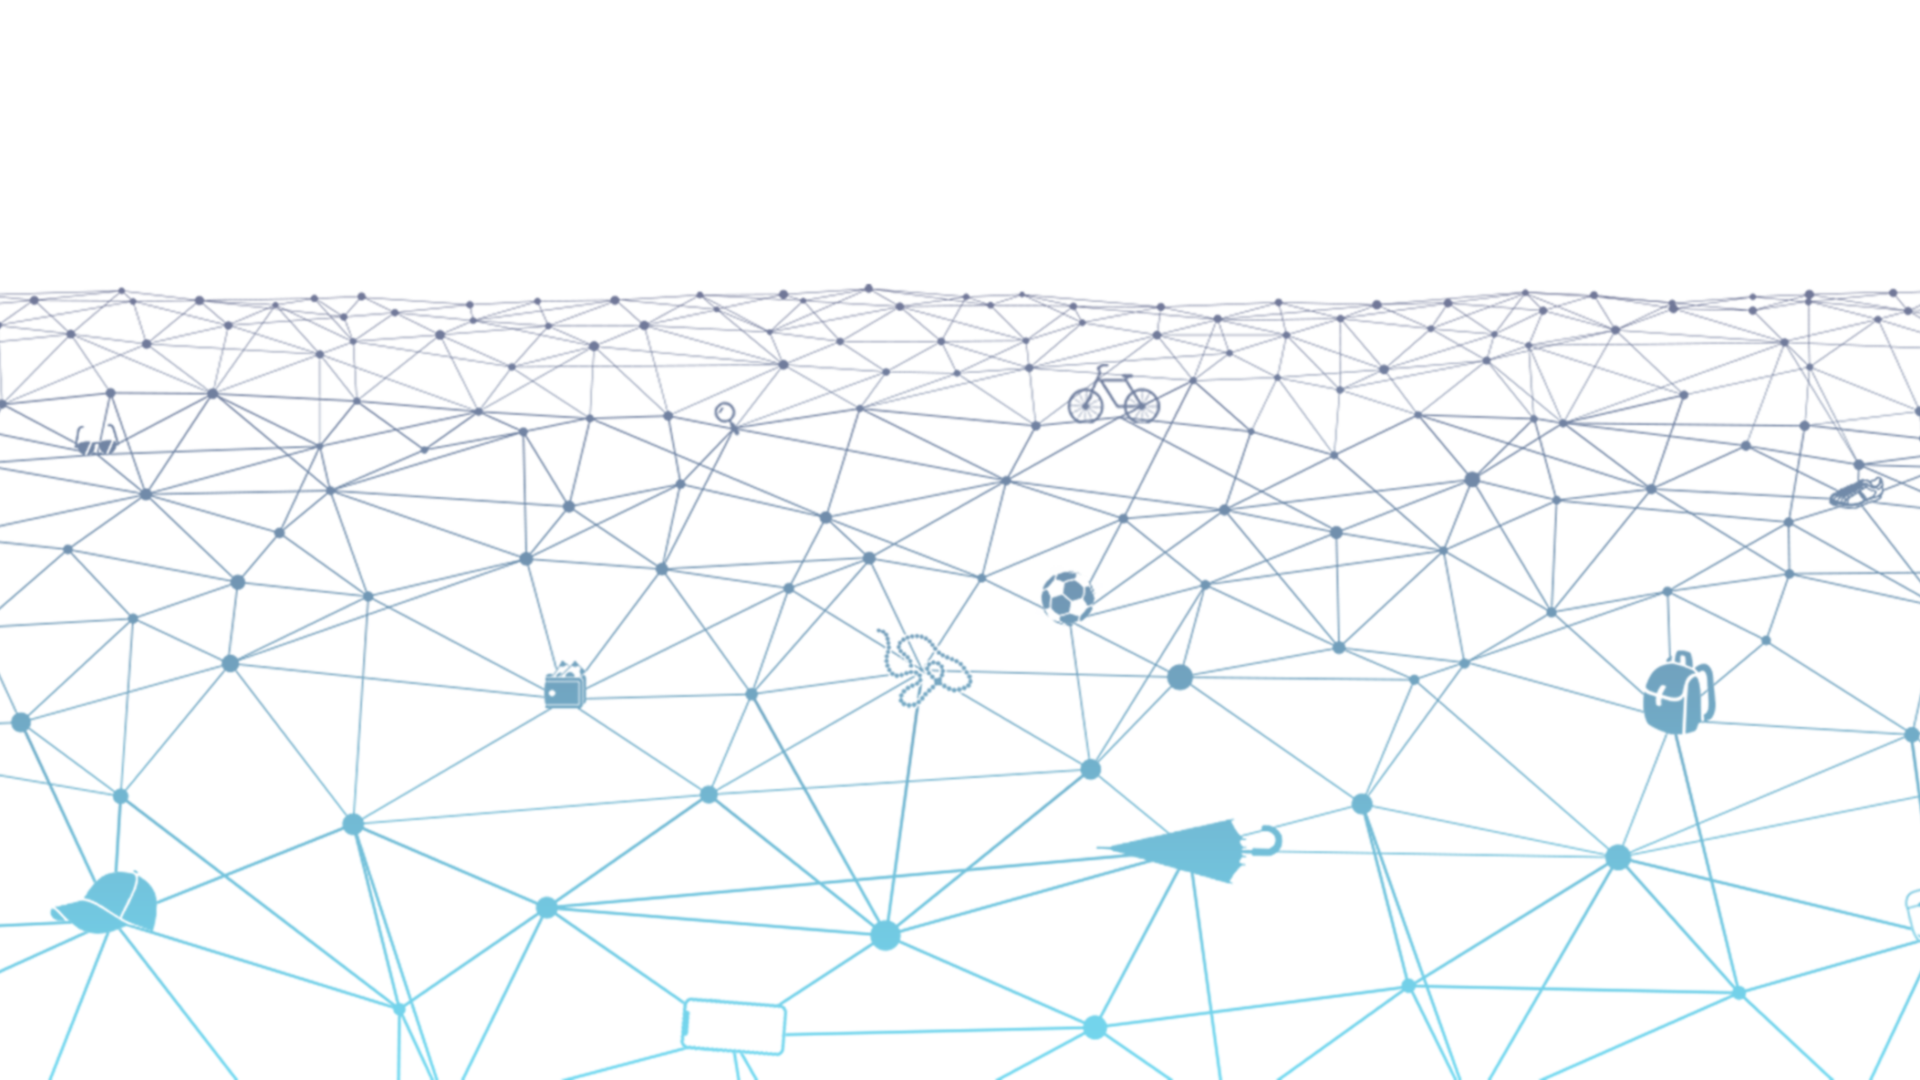
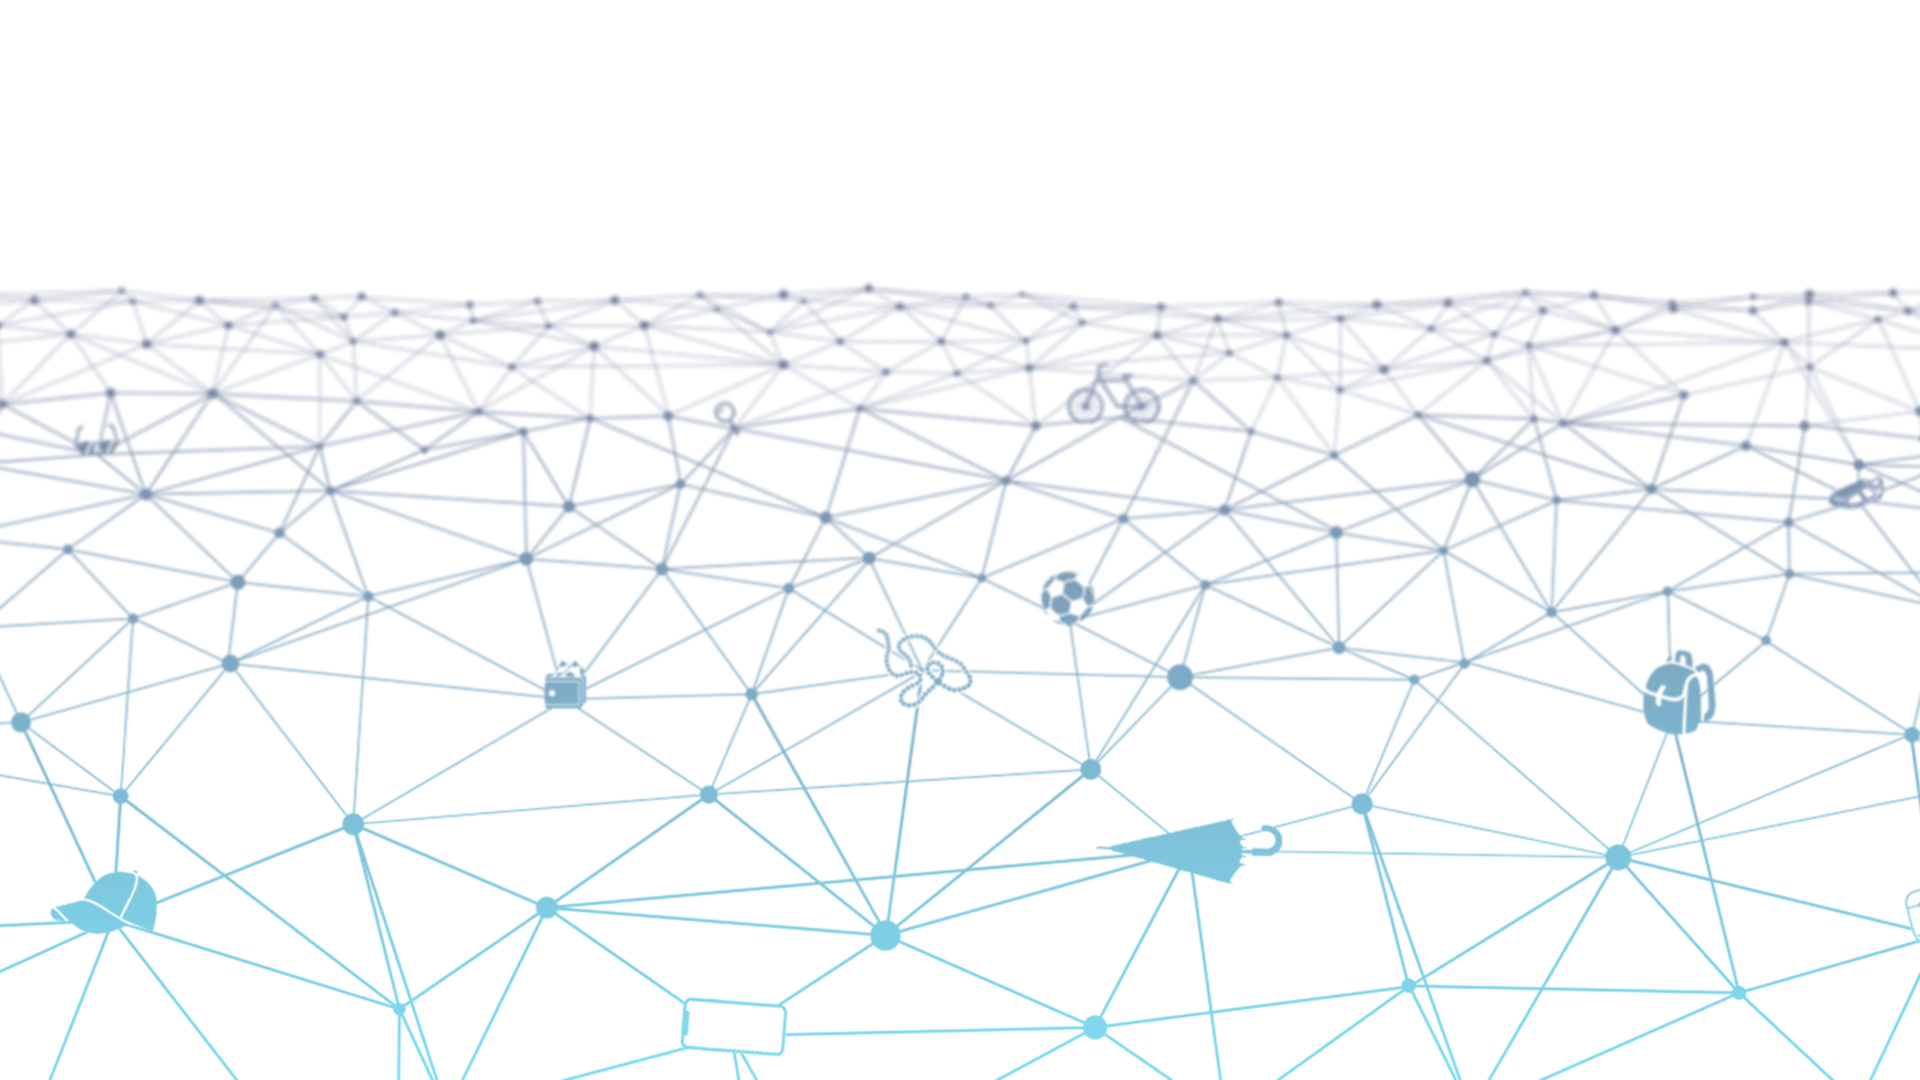
Fixed some vectors and added bg-fixed to all of them

diff --git a/src/pages/HomePage.jsx b/src/pages/HomePage.jsx
@@ -5,7 +5,7 @@ import Page from "../components/Page"
 
 const HomePage = () => {
     return (
-        <Page bgClassName="bg-vertical lg:bg-horizontal bg-cover bg-no-repeat" className="h-auto flex flex-col items-center px-6 lg:px-16">
+        <Page bgClassName="bg-vertical lg:bg-horizontal bg-cover bg-no-repeat bg-fixed" className="h-auto flex flex-col items-center px-6 lg:px-16">
             <VeryBigText className="text-center lg:mt-20">Lost & Found</VeryBigText>
             <MediumText className="mx-8 mt-16 lg:mt-20 md:w-3/4 lg:w-1-2 text-left drop-shadow-lg">
                 Ostavio si torbu u tramvaju? Ostala ti je majica u teretani? Pronađi izgubljene predmete u nekoliko klikova.

diff --git a/src/pages/PrivacyPage.jsx b/src/pages/PrivacyPage.jsx
@@ -4,7 +4,7 @@ import Page from "../components/Page"
 
 const PrivacyPage = () => {
     return (
-        <Page className="bg-privacyVertical lg:bg-privacyHorizontal bg-cover bg-center bg-no-repeat flex flex-col items-center px-6 lg:px-16">
+        <Page bgClassName="bg-privacyVertical lg:bg-privacyHorizontal bg-cover bg-center bg-no-repeat bg-fixed" className="flex flex-col items-center px-6 lg:px-16">
             <BigText className="text-center mt-16 lg:mt-20">Prikupljanje podataka</BigText>
             <MediumText className="mx-2 mt-16 lg:w-3/4 text-left font-semibold text-primary">Uvod</MediumText>
             <SmallText className="mx-2 mt-5 lg:w-3/4 text-left font-medium">

diff --git a/src/pages/AboutPage.jsx b/src/pages/AboutPage.jsx
@@ -4,7 +4,7 @@ import Page from "../components/Page"
 
 const AboutPage = () => {
     return (
-        <Page className="bg-aboutVertical lg:bg-aboutHorizontal bg-cover bg-center bg-no-repeat flex flex-col items-center px-6 lg:px-16">
+        <Page bgClassName="bg-aboutVertical lg:bg-aboutHorizontal bg-cover bg-center bg-fixed bg-no-repeat" className="flex flex-col items-center px-6 lg:px-16">
             <BigText className="text-center mt-12 lg:mt-20">O aplikaciji</BigText>
             <MediumText className="mx-2 mt-16 lg:w-3/4 text-left font-semibold text-primary">Dobrodošli</MediumText>
             <SmallText className="mx-2 mt-5 lg:w-3/4 text-left font-medium">

diff --git a/src/pages/ContactPage.jsx b/src/pages/ContactPage.jsx
@@ -4,7 +4,7 @@ import Page from "../components/Page"
 
 const ContactPage = () => {
     return (
-        <Page className="bg-contactVertical lg:bg-contactHorizontal bg-cover bg-no-repeat flex flex-col items-center px-6 lg:px-16">
+        <Page bgClassName="bg-contactVertical lg:bg-contactHorizontal bg-cover bg-no-repeat bg-fixed" className="flex flex-col items-center px-6 lg:px-16">
             <BigText className="mt-8 lg:mt-20 lg:text-center text-center text-4xl mb-10 lg:mb-4">Kontaktirajte nas</BigText>
             <MediumText className="lg:mt-8 flex flex-col justify-center items-center mb-4 lg:mb-0">
                 Email adresa:{" "}
